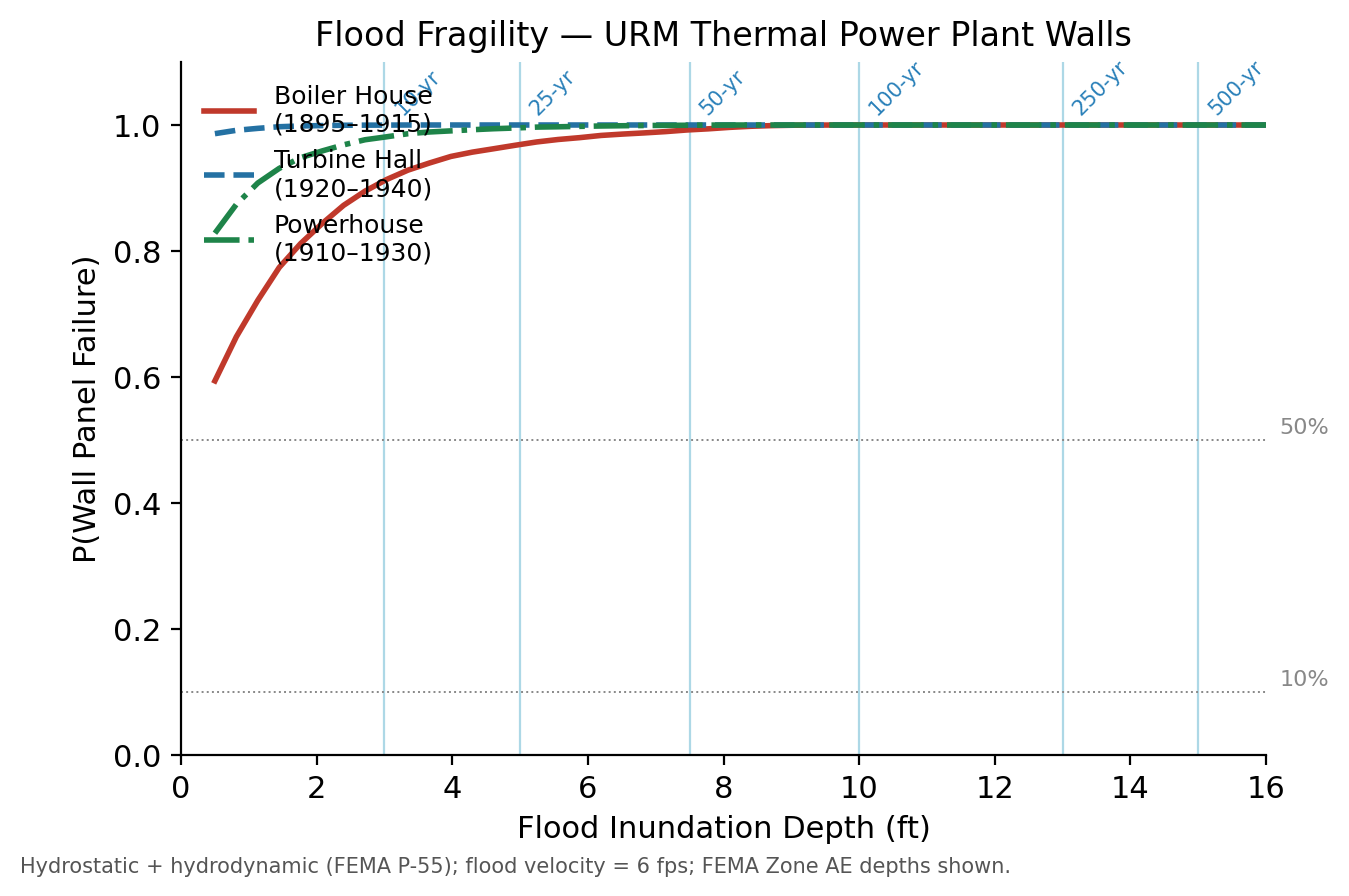
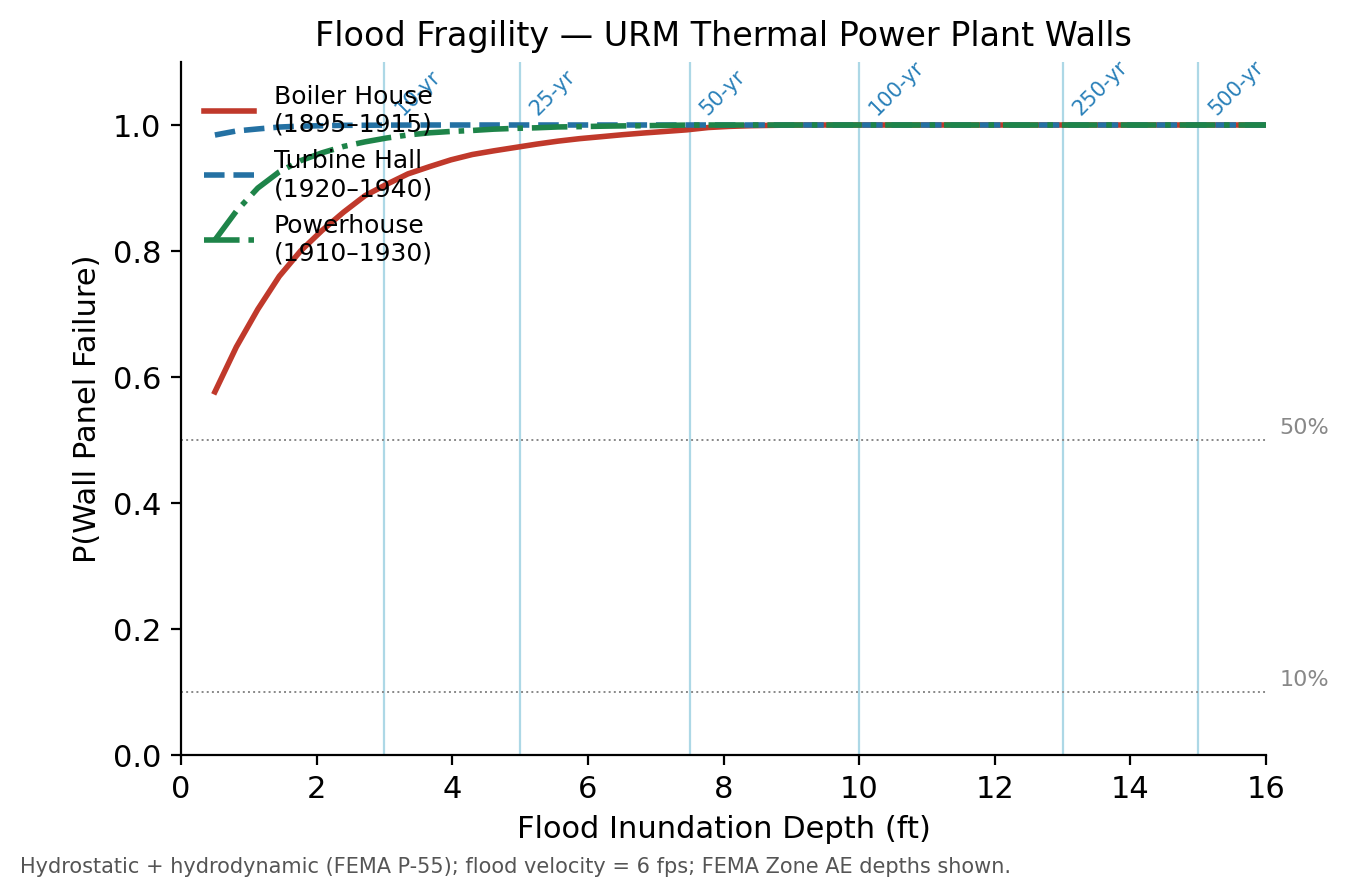
Fix Kd/Kz (C&C), tornado site rates, and flood buoyancy
- velocity_pressure_psf: Kd 0.85→1.0 (wall panels are C&C per ASCE 7-22
  §26.6.1 Table 26.6-1; MWFRS uses 0.85) — fixes ~18% wind demand underestimate
- Add kz_exposure_c(z_ft): height-dependent Kz per ASCE 7-22 Eq. 26.10-1
  (Exposure C: α=9.5, zg=900 ft); pass through fragility functions per archetype
  (boiler house 0.98, turbine hall 1.07, powerhouse 1.02 vs prior fixed 0.85)
- dc_overturning: add depth_ft_buoyancy parameter; reduce stabilizing moment
  by γ_w·t·min(h_flood,h_wall)·w when flood/surge loading is present
- tornado AFP site rates: scale Tippett et al. (2016) 1°×1° grid-cell rates
  (~10,000 km²) to ~0.2 km² plant footprint; EF2+ ≈ 3×10⁻⁴/yr (~3,300-yr RP),
  consistent with ASCE 7-22 App. CC maps for Risk Category II in SE US

diff --git a/src/limit_states.py b/src/limit_states.py
@@ -65,17 +65,18 @@ def dc_base_sliding(walls: dict,
 
 def dc_overturning(walls: dict,
                    lateral_force_lbf: np.ndarray,
-                   moment_arm_ft: np.ndarray) -> np.ndarray:
+                   moment_arm_ft: np.ndarray,
+                   depth_ft_buoyancy: np.ndarray = None) -> np.ndarray:
     """
     Overturning about base (conservative: no uplift resistance from connections).
 
-    Demand:   M_ot = F · arm                           (lbf·ft)
-    Capacity: M_stab = W · t/2                         (lbf·ft)
+    Demand:   M_ot   = F · arm                                   (lbf·ft)
+    Capacity: M_stab = W_eff · t/2                               (lbf·ft)
 
-    NOTE: W uses full dry self-weight. For flood loading, partial submersion
-    reduces effective weight by buoyancy (γ_w · V_sub). Omitting buoyancy
-    overpredicts M_stab by ~8–12% at 10 ft submersion, making results
-    slightly non-conservative (understates failure probability for flood).
+    When depth_ft_buoyancy is provided (flood loading), the stabilizing weight
+    is reduced by the buoyant force on the submerged wall volume:
+        F_b = γ_w · t · min(h_flood, h_wall) · w     (lbf)
+        W_eff = max(W − F_b, 0)
 
     Returns D/C ratio array shape (n_intensity, n_samples).
     """
@@ -85,8 +86,18 @@ def dc_overturning(walls: dict,
     F    = lateral_force_lbf[:, np.newaxis]    # (nI, 1)
     arm  = moment_arm_ft[:, np.newaxis]        # (nI, 1)
 
-    M_ot   = F * arm                           # (nI, nS) lbf·ft
-    M_stab = W * (t / 2.0)                    # (nS,) lbf·ft
+    M_ot = F * arm                             # (nI, nS) lbf·ft
+
+    if depth_ft_buoyancy is not None:
+        h    = walls["h_ft"]                   # (nS,) total wall height
+        w    = walls["w_ft"]                   # (nS,)
+        h_sub = np.minimum(depth_ft_buoyancy[:, np.newaxis], h)   # (nI, nS)
+        F_b   = 62.4 * t * h_sub * w          # (nI, nS) lbf  (freshwater γ = 62.4 pcf)
+        W_eff = np.maximum(W - F_b, 0.0)      # (nI, nS)
+    else:
+        W_eff = W                              # (nS,) — broadcasts to (nI, nS)
+
+    M_stab = W_eff * (t / 2.0)                # (nI, nS) or broadcast equivalent
 
     return M_ot / np.maximum(M_stab, 1e-6)
 
@@ -137,12 +148,13 @@ def governing_dc_combined(walls: dict,
 
     Flexure uses the corrected partial-load moment (flood acts only over surge depth).
     Sliding and overturning use the total lateral force F_wind + F_flood.
+    Overturning stabilizing weight is reduced by buoyancy for the submerged surge depth.
     """
     F_total = F_wind_lbf + F_flood_lbf
 
     dc_f = dc_out_of_plane_flexure_combined(walls, p_wind_psf, F_flood_lbf, h_surge_ft)
     dc_s = dc_base_sliding(walls, F_total)
-    dc_o = dc_overturning(walls, F_total, arm_combined_ft)
+    dc_o = dc_overturning(walls, F_total, arm_combined_ft, depth_ft_buoyancy=h_surge_ft)
 
     dc_gov = np.maximum(dc_f, np.maximum(dc_s, dc_o))
     p_fail = (dc_gov >= 1.0).mean(axis=1)
@@ -160,14 +172,16 @@ def governing_dc_combined(walls: dict,
 def governing_dc(walls: dict,
                  lateral_force_lbf: np.ndarray,
                  pressure_psf: np.ndarray,
-                 moment_arm_ft: np.ndarray) -> dict:
+                 moment_arm_ft: np.ndarray,
+                 depth_ft_buoyancy: np.ndarray = None) -> dict:
     """
     Compute all three D/C ratios and return the governing (max) value.
 
     Inputs (all numpy arrays):
-        lateral_force_lbf : (nI,)  total lateral force per intensity level
-        pressure_psf      : (nI,)  equivalent uniform pressure for flexure
-        moment_arm_ft     : (nI,)  moment arm for overturning
+        lateral_force_lbf  : (nI,)  total lateral force per intensity level
+        pressure_psf       : (nI,)  equivalent uniform pressure for flexure
+        moment_arm_ft      : (nI,)  moment arm for overturning
+        depth_ft_buoyancy  : (nI,)  flood depth for buoyancy in overturning (None = no buoyancy)
 
     Returns dict with keys:
         dc_flex, dc_slide, dc_ot  — shape (nI, nS)
@@ -177,7 +191,7 @@ def governing_dc(walls: dict,
     """
     dc_f = dc_out_of_plane_flexure(walls, pressure_psf)
     dc_s = dc_base_sliding(walls, lateral_force_lbf)
-    dc_o = dc_overturning(walls, lateral_force_lbf, moment_arm_ft)
+    dc_o = dc_overturning(walls, lateral_force_lbf, moment_arm_ft, depth_ft_buoyancy)
 
     dc_gov = np.maximum(dc_f, np.maximum(dc_s, dc_o))
     p_fail = (dc_gov >= 1.0).mean(axis=1)

diff --git a/src/fragility.py b/src/fragility.py
@@ -16,7 +16,7 @@ sys.path.insert(0, os.path.dirname(__file__))
 from urm_wall import ARCHETYPES, sample_walls
 from hazard_loads import (
     wind_pressure_psf, tornado_pressure_psf, flood_total_force,
-    hurricane_landfall_forces, EF_MID_SPEEDS,
+    hurricane_landfall_forces, kz_exposure_c, EF_MID_SPEEDS,
     RETURN_PERIOD_WIND, RETURN_PERIOD_FLOOD,
 )
 from limit_states import governing_dc, governing_dc_combined
@@ -53,11 +53,13 @@ def hurricane_fragility(archetype: dict) -> dict:
     """
     P(wall failure | V_hurricane) for a single archetype.
     Force computed over full panel height; arm at mid-panel.
+    Kz computed from archetype mean roof height per ASCE 7-22 Exposure C.
     """
     walls = sample_walls(archetype, N_SAMPLES, seed=1)
-    ph = archetype["panel_height_ft_mean"]   # effective structural span
-    p_net = wind_pressure_psf(V_HURRICANE)   # (nV,) psf
-    F   = p_net * ph * archetype["width_ft"] # (nV,) lbf — over panel span
+    ph  = archetype["panel_height_ft_mean"]
+    Kz  = kz_exposure_c(archetype["height_ft_mean"])
+    p_net = wind_pressure_psf(V_HURRICANE, Kz=Kz)   # (nV,) psf
+    F   = p_net * ph * archetype["width_ft"]
     arm = np.full(len(V_HURRICANE), ph / 2.0)
 
     p_fail, modes = _run_hazard(walls, F, p_net, arm)
@@ -68,10 +70,12 @@ def tornado_fragility(archetype: dict) -> dict:
     """
     P(wall failure | EF category) for a single archetype.
     Tornado pressure includes 1.5× internal pressure amplification (ASCE 7-22 App. CC).
+    Kz computed from archetype mean roof height per ASCE 7-22 Exposure C.
     """
     walls = sample_walls(archetype, N_SAMPLES, seed=2)
-    ph = archetype["panel_height_ft_mean"]
-    p_net = tornado_pressure_psf(V_TORNADO)  # (6,) psf
+    ph  = archetype["panel_height_ft_mean"]
+    Kz  = kz_exposure_c(archetype["height_ft_mean"])
+    p_net = tornado_pressure_psf(V_TORNADO, Kz=Kz)  # (6,) psf
     F   = p_net * ph * archetype["width_ft"]
     arm = np.full(len(V_TORNADO), ph / 2.0)
 
@@ -84,13 +88,14 @@ def flood_fragility(archetype: dict) -> dict:
     P(wall failure | flood depth in ft) for a single archetype.
     Overturning uses total wall height; sliding uses degraded base area.
     Flood force and arm computed from hydrostatic + hydrodynamic resultant.
+    Buoyancy reduces overturning stabilizing moment per submerged wall volume.
     """
     walls = sample_walls(archetype, N_SAMPLES, seed=3)
     F, arm, p_eff = flood_total_force(DEPTH_FLOOD,
                                        V_water_fps=6.0,
                                        width_ft=archetype["width_ft"])
-    p_fail, modes = _run_hazard(walls, F, p_eff, arm)
-    return {"depth_ft": DEPTH_FLOOD, "p_fail": p_fail, "modes": modes}
+    result = governing_dc(walls, F, p_eff, arm, depth_ft_buoyancy=DEPTH_FLOOD)
+    return {"depth_ft": DEPTH_FLOOD, "p_fail": result["p_fail"], "modes": result["governing_mode"]}
 
 
 def combined_hurricane_fragility(archetype: dict) -> dict:
@@ -101,11 +106,15 @@ def combined_hurricane_fragility(archetype: dict) -> dict:
     Uses governing_dc_combined which correctly computes the flexure moment from
     a partial-depth flood load (concentrated-load approx at surge midpoint) rather
     than projecting surge force as a fictitious uniform pressure over the full panel.
+    Kz computed from archetype mean roof height per ASCE 7-22 Exposure C.
+    Overturning stabilizing weight reduced by buoyancy from storm surge.
     """
     walls = sample_walls(archetype, N_SAMPLES, seed=4)
     surge = surge_from_wind(V_HURRICANE)
+    Kz    = kz_exposure_c(archetype["height_ft_mean"])
     loads = hurricane_landfall_forces(V_HURRICANE, surge,
-                                       width_ft=archetype["width_ft"])
+                                       width_ft=archetype["width_ft"],
+                                       Kz=Kz)
 
     ph   = archetype["panel_height_ft_mean"]
     w    = archetype["width_ft"]

diff --git a/src/hazard_loads.py b/src/hazard_loads.py
@@ -9,24 +9,37 @@ import numpy as np
 # ── Wind ──────────────────────────────────────────────────────────────────────
 
 def velocity_pressure_psf(V_mph: float,
-                           Kz: float = 0.85,   # exposure cat C, z~30 ft
+                           Kz: float = 0.98,   # Exposure C, z≈30 ft; use kz_exposure_c() for height-specific
                            Kzt: float = 1.0,
-                           Kd: float = 0.85) -> float:
+                           Kd: float = 1.0) -> float:    # C&C wall panels: Kd=1.0 per ASCE 7-22 §26.6.1 Table 26.6-1
     """
     Velocity pressure per ASCE 7-22 Eq. 26.10-1:
         qz = 0.00256 · Kz · Kzt · Kd · V²   (psf)
+    Kd = 1.0 for Components & Cladding (wall panels); MWFRS uses 0.85.
     """
     return 0.00256 * Kz * Kzt * Kd * V_mph**2
 
 
+def kz_exposure_c(z_ft: float) -> float:
+    """
+    Velocity pressure exposure coefficient Kz for Exposure Category C.
+    ASCE 7-22 Table 26.10-1 / Eq. 26.10-1:
+        Kz = 2.01 · (z/zg)^(2/α)   where α = 9.5, zg = 900 ft
+    Clipped to z ≥ 15 ft (code minimum reference height).
+    """
+    z = max(float(z_ft), 15.0)
+    return 2.01 * (z / 900.0) ** (2.0 / 9.5)
+
+
 def wind_pressure_psf(V_mph: float | np.ndarray,
                        Cp_windward: float = 0.8,
-                       Cp_leeward: float = 0.5) -> float | np.ndarray:
+                       Cp_leeward: float = 0.5,
+                       Kz: float = 0.98) -> float | np.ndarray:
     """
     Net out-of-plane wall pressure (windward + leeward contribution).
     p_net = qz · (Cp_windward + Cp_leeward)  — conservative for enclosed industrial bldg.
     """
-    qz = velocity_pressure_psf(V_mph)
+    qz = velocity_pressure_psf(V_mph, Kz=Kz)
     return qz * (Cp_windward + Cp_leeward)
 
 
@@ -47,17 +60,18 @@ EF_MID_SPEEDS = np.array([
 ])
 
 
-def tornado_pressure_psf(EF_speed_mph: float | np.ndarray) -> float | np.ndarray:
+def tornado_pressure_psf(EF_speed_mph: float | np.ndarray,
+                          Kz: float = 0.98) -> float | np.ndarray:
     """
     Apply an internal pressure amplification factor of 1.5× for tornado
     (ASCE 7-22 App. CC §CC.5: breaching of envelope creates +/- internal pressure).
     """
-    return wind_pressure_psf(EF_speed_mph) * 1.5
+    return wind_pressure_psf(EF_speed_mph, Kz=Kz) * 1.5
 
 
 # ── Flood ─────────────────────────────────────────────────────────────────────
 
-WATER_DENSITY_PCF = 64.0      # saltwater ≈ 64.0, freshwater ≈ 62.4
+WATER_DENSITY_PCF = 62.4      # freshwater; most thermal plants are riverine, not coastal
 FLOOD_Cd = 2.0                # drag coefficient for flat wall, FEMA P-55 §3.4.2
 
 
@@ -113,12 +127,13 @@ def flood_total_force(depth_ft: float | np.ndarray,
 def hurricane_landfall_forces(V_wind_mph: float | np.ndarray,
                                storm_surge_ft: float | np.ndarray,
                                V_water_fps: float = 8.0,
-                               width_ft: float = 20.0) -> dict:
+                               width_ft: float = 20.0,
+                               Kz: float = 0.98) -> dict:
     """
     Simultaneous wind and storm-surge flood loading during hurricane landfall.
     Returns a dict of load components.
     """
-    p_wind = wind_pressure_psf(V_wind_mph)
+    p_wind = wind_pressure_psf(V_wind_mph, Kz=Kz)
     F_flood, arm_flood, p_flood_eff = flood_total_force(storm_surge_ft, V_water_fps, width_ft)
 
     return {

diff --git a/src/run_analysis.py b/src/run_analysis.py
@@ -273,11 +273,14 @@ def plot_risk_matrix(results: dict):
         afp[i, 0] = annual_failure_probability(interp_h, RETURN_PERIOD_WIND) * 100
 
         # Tornado: P(fail | EF) × annual rate per EF category.
-        # Rates from Tippett et al. (2016) SPC tornado climatology for SE US
-        # high-exposure region (roughly AL/MS/TN corridor). Values are per
-        # grid cell (~1000 km²) per year; treat as site-scale approximation.
+        # Per-site annual rates for a ~0.2 km² industrial facility footprint in a
+        # high-hazard SE US location (Dixie Alley / Gulf Coast), derived by scaling
+        # Tippett et al. (2016) SPC tornado climatology (1° × 1° grid cells,
+        # ~10,000 km²) by the plant-to-cell area ratio (~0.2/10,000 = 2×10⁻⁵).
+        # EF2+ combined rate ≈ 3×10⁻⁴/yr → ~3,300-yr return period, consistent
+        # with ASCE 7-22 App. CC tornado maps for Risk Category II in this region.
         r_t = results[key]["tornado"]
-        ef_annual_rates = np.array([0.010, 0.005, 0.002, 0.0005, 0.0001, 0.00002])
+        ef_annual_rates = np.array([5.0e-4, 1.5e-4, 3.0e-5, 5.0e-6, 6.0e-7, 5.0e-8])
         afp[i, 1] = float(np.sum(r_t["p_fail"] * ef_annual_rates)) * 100
 
         # Flood: integrate over return-period depths (100-yr base)
@@ -324,7 +327,7 @@ def plot_risk_matrix(results: dict):
              "PEER PBEE integration: λ_f = Σ P(fail|IM) · Δλ(IM). "
              "Wind: ASCE 7-22 Risk Cat II hazard curve (10-yr to 1700-yr return periods). "
              "Flood: FEMA Zone AE depths (conditional on site being in floodplain). "
-             "Tornado: Tippett et al. (2016) SE US rates. "
+             "Tornado: Tippett et al. (2016) SE US rates scaled to ~0.2 km² plant footprint. "
              "Reference: ASCE 7-22 Risk Cat II design wind → 700-yr RP (0.14%/yr exceedance probability); "
              "these archetypes reach >50% panel failure well below the 700-yr wind speed.",
              fontsize=7.5, color="#555", wrap=True)
@@ -343,7 +346,7 @@ def plot_degradation_sensitivity():
     of construction year (1895–1950) — key argument for why aging plants face
     invisibly elevated risk that is invisible to current inspection practice.
     """
-    from hazard_loads import wind_pressure_psf
+    from hazard_loads import wind_pressure_psf, kz_exposure_c
     from limit_states import governing_dc
     from urm_wall import sample_walls, degradation_factor
     from fragility import V_HURRICANE, N_SAMPLES
@@ -354,6 +357,7 @@ def plot_degradation_sensitivity():
     cat3_mph = 111.0
     cmap = plt.get_cmap("plasma")
     arch_base = ARCHETYPES["turbine_hall"].copy()
+    Kz_th = kz_exposure_c(arch_base["height_ft_mean"])   # turbine hall Kz
 
     pf_at_cat3 = {}   # for dynamic caption
 
@@ -362,7 +366,7 @@ def plot_degradation_sensitivity():
         arch["year_built"] = yr
         walls = sample_walls(arch, N_SAMPLES, seed=10 + idx)
 
-        p_net = wind_pressure_psf(V_HURRICANE)
+        p_net = wind_pressure_psf(V_HURRICANE, Kz=Kz_th)
         ph = arch["panel_height_ft_mean"]
         F   = p_net * ph * arch["width_ft"]
         arm = np.full(len(V_HURRICANE), ph / 2.0)
